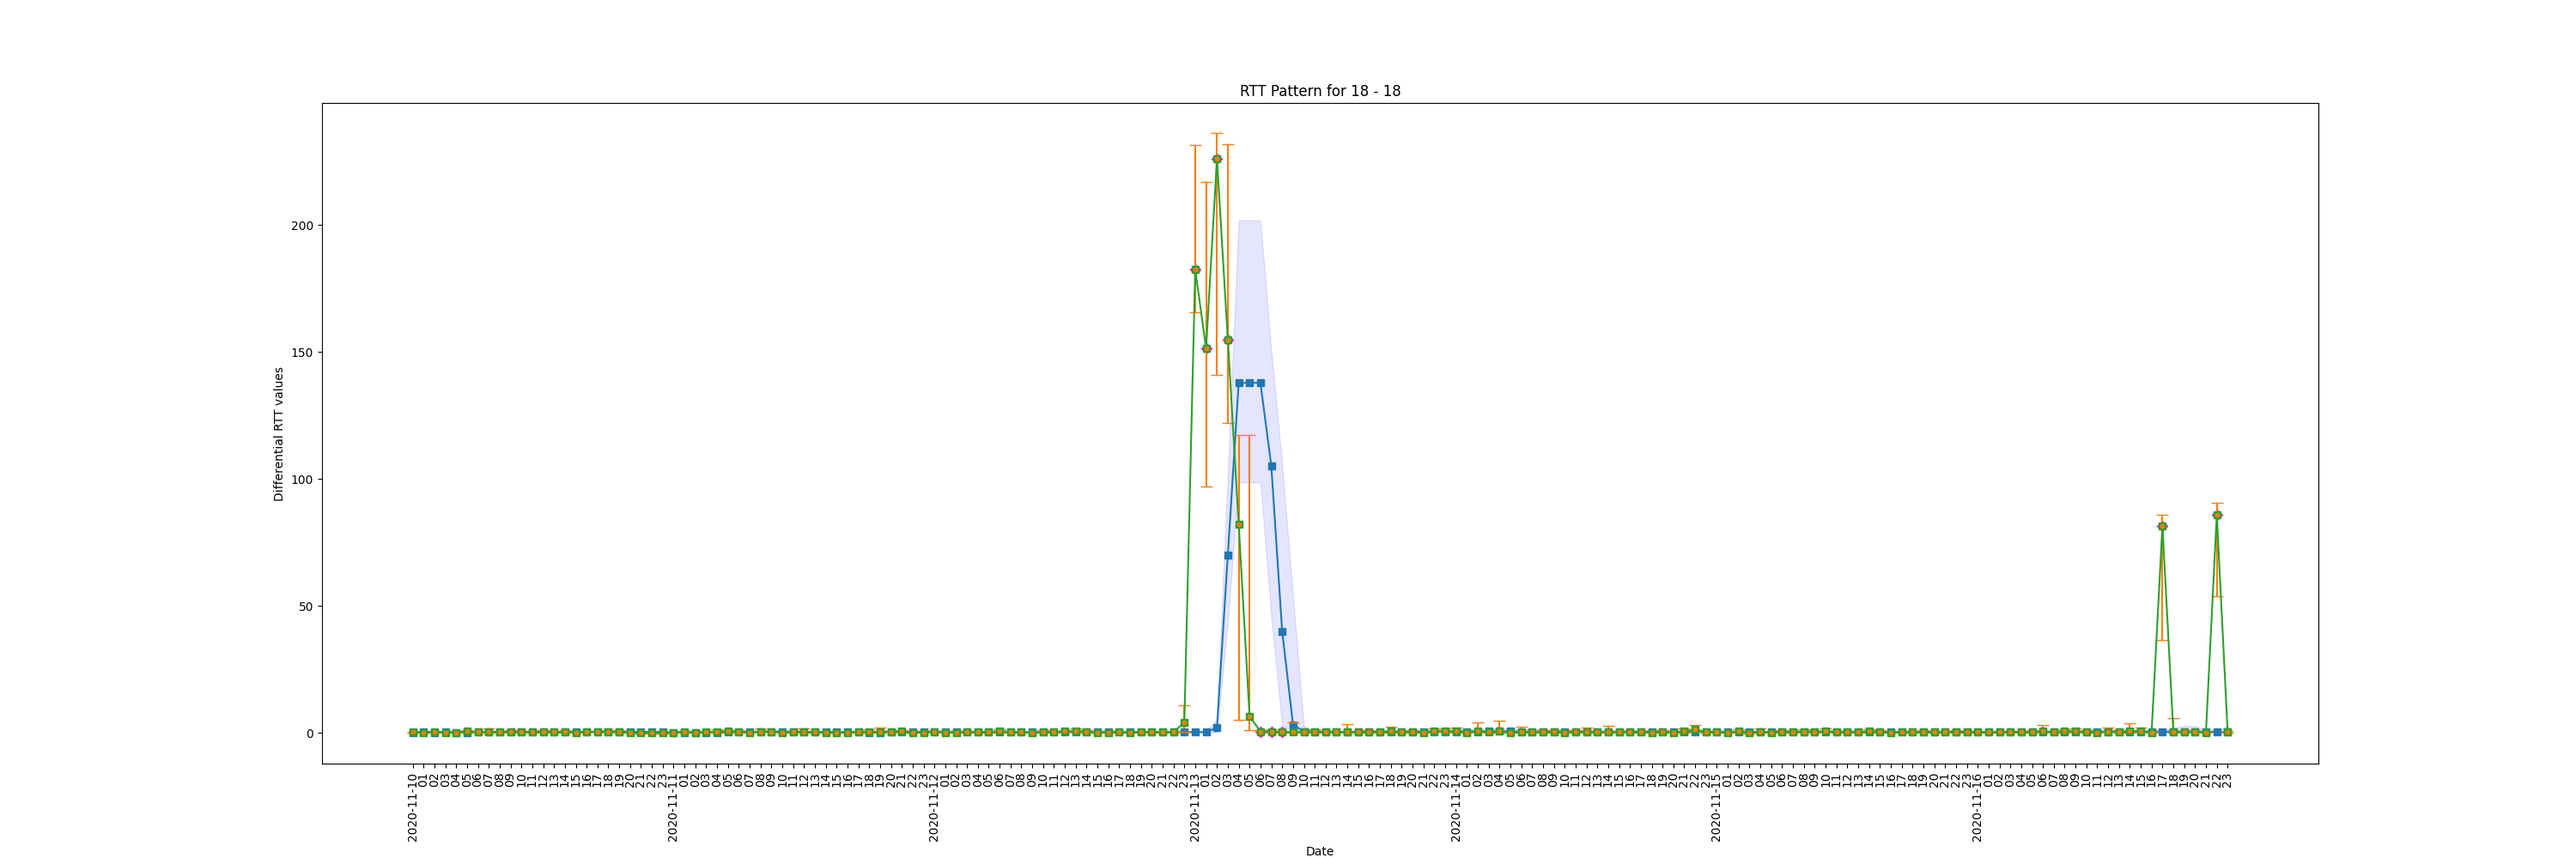
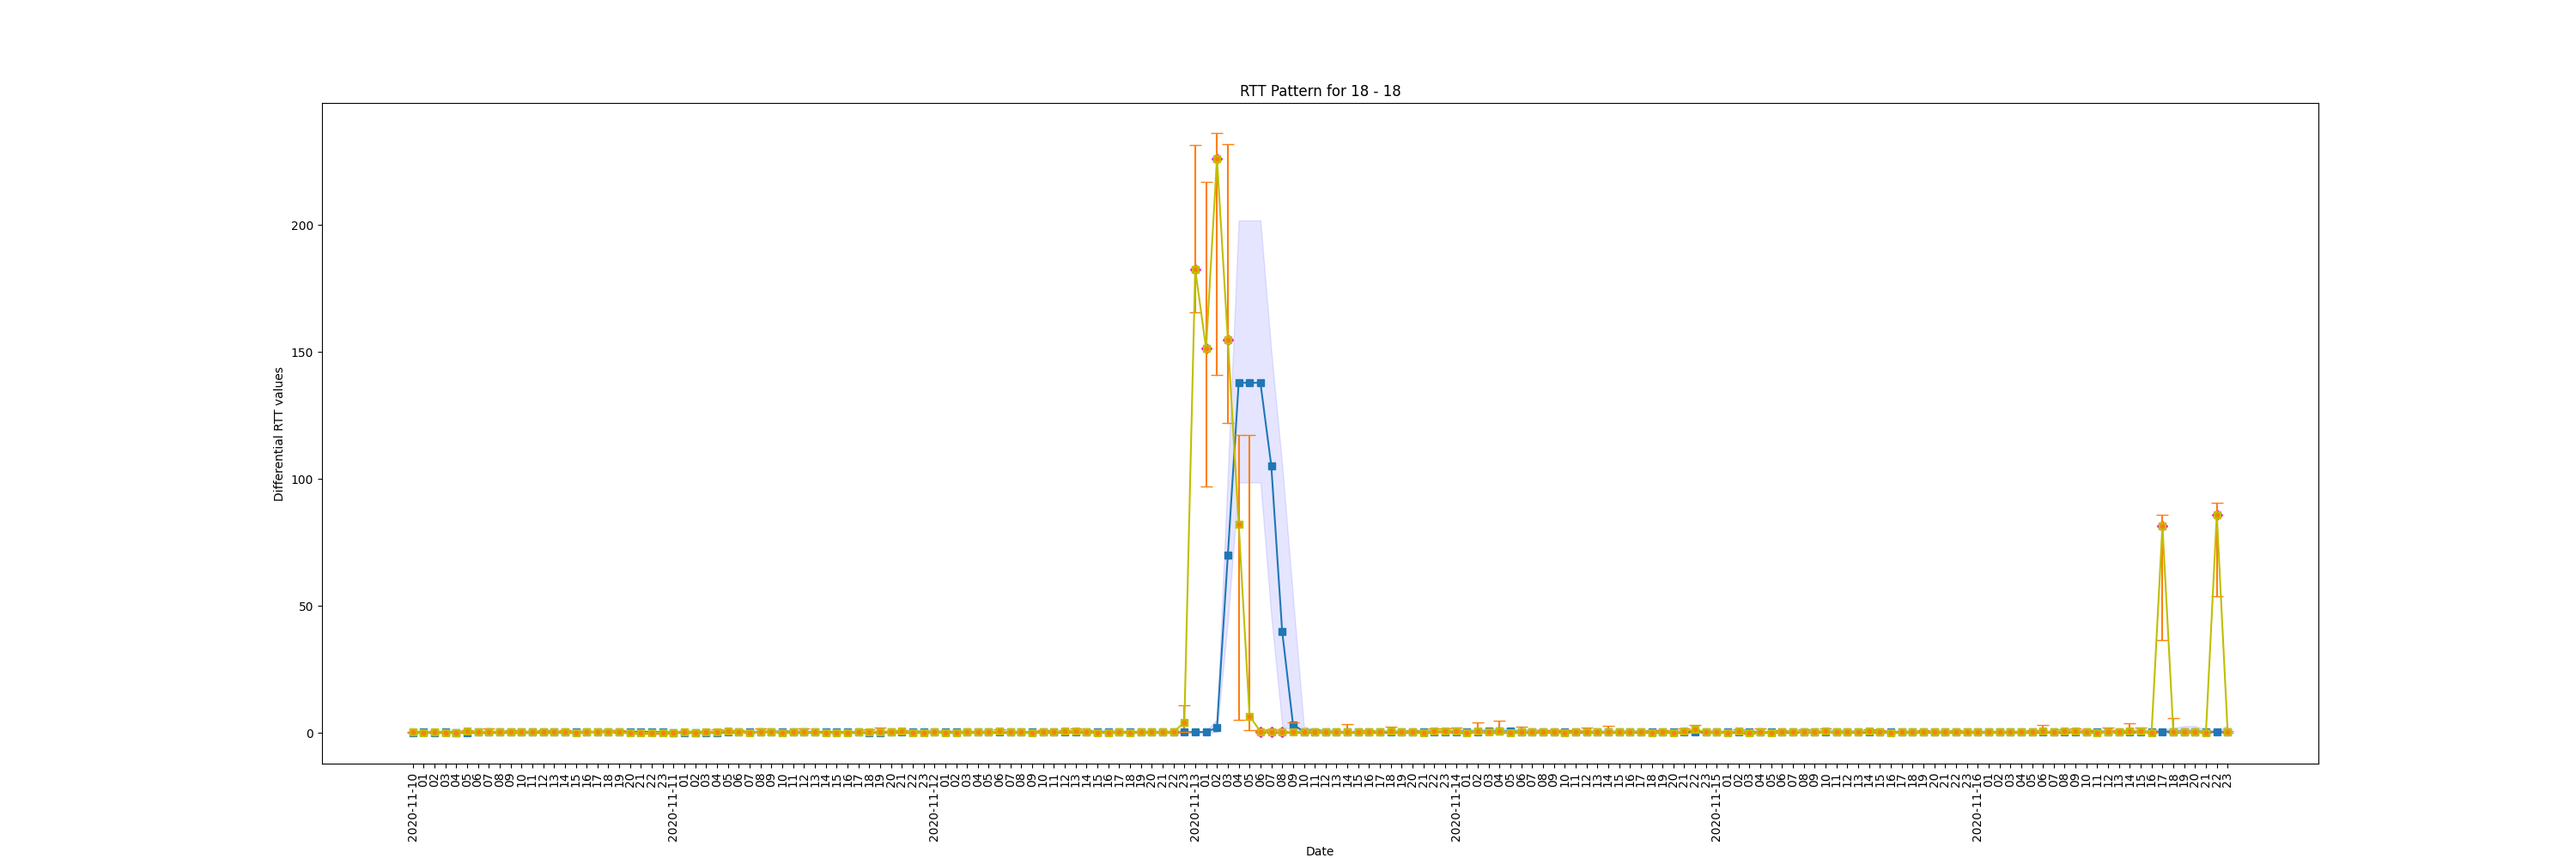
RTT Graph

diff --git a/phase3_scripts/rtt_monitoring/rtt_monitoring_graph_sw_bk.py b/phase3_scripts/rtt_monitoring/rtt_monitoring_graph_sw_bk.py
@@ -99,7 +99,7 @@ plt.plot(np.arange(len(date_list)), normal_reference_median, marker ='s')
 plt.fill_between(np.arange(len(date_list)), normal_reference_lower, normal_reference_upper, color='b', alpha=.1)
 
 plt.errorbar(np.arange(len(date_list)), rtt_median, yerr=err_list,fmt='.',capsize=5)
-plt.plot(np.arange(len(date_list)), rtt_median, marker ='s')
+plt.plot(np.arange(len(date_list)), rtt_median, marker ='s', color ='y') 
 
 
 plt.scatter(alarm_list, alarm_values, marker='D', color='magenta')
